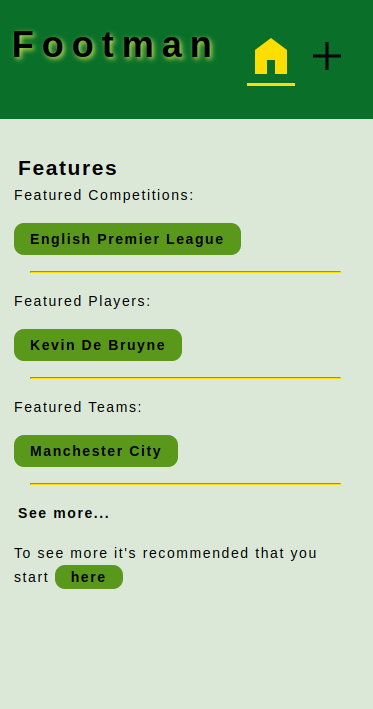
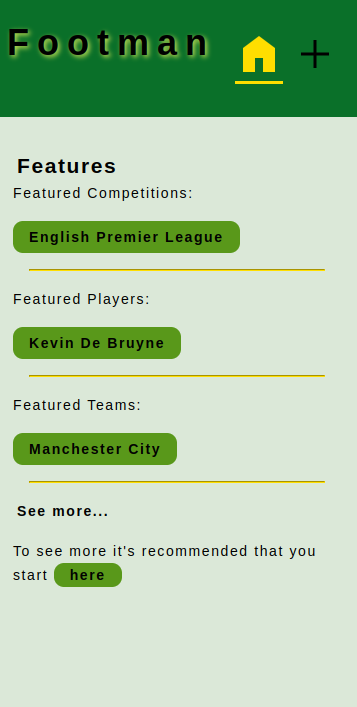
Tweak to prevent jolting.

diff --git a/index.html b/index.html
@@ -59,26 +59,35 @@
                 <details>
                     <summary>Need more? </summary> 
                         <nav>
-                            <details>
-                                <summary>Background</summary>
+                            <div>
+                                <details>
+                                    <summary>Background</summary>
+                                </details>
+                                <p>
+                                    Hi. I spend my days making things. I can make things on screens. This is not very useful, so I also learned to save the things we make on screens. This is OK, but it's pretty lonely
+                                    so I also learned how to have my thing eat other things stuck in the spider's web. This is pretty selfish though, so I rounded it off by making sure my thing can be eaten by other things as well.
+                                    Now I am full, but I want to make bigger things. I am sure you want to help out so drop me a line at richard.theuma@gmail.com.
+                                </p>
+                            </div>
+                            <div>
+                                <details>
+                                    <summary>History</summary>
+                                </details>
+                                <p>
+                                    Hi. I spend my days making things. I can make things on screens. This is not very useful, so I also learned to save the things we make on screens. This is OK, but it's pretty lonely
+                                    so I also learned how to have my thing eat other things stuck in the spider's web. This is pretty selfish though, so I rounded it off by making sure my thing can be eaten by other things as well.
+                                    Now I am full, but I want to make bigger things. I am sure you want to help out so drop me a line at richard.theuma@gmail.com.
+                                </p>
+                            </div>
+                            <div>
+                                <details>
+                                    <summary>Other</summary>
+                                </details>
                                 <p>Hi. I spend my days making things. I can make things on screens. This is not very useful, so I also learned to save the things we make on screens. This is OK, but it's pretty lonely
                                     so I also learned how to have my thing eat other things stuck in the spider's web. This is pretty selfish though, so I rounded it off by making sure my thing can be eaten by other things as well.
                                     Now I am full, but I want to make bigger things. I am sure you want to help out so drop me a line at richard.theuma@gmail.com.</p>
-                            </details>
-                            <details>
-                                <summary>History</summary>
-                                <p>Hi. I spend my days making things. I can make things on screens. This is not very useful, so I also learned to save the things we make on screens. This is OK, but it's pretty lonely
-                                    so I also learned how to have my thing eat other things stuck in the spider's web. This is pretty selfish though, so I rounded it off by making sure my thing can be eaten by other things as well.
-                                    Now I am full, but I want to make bigger things. I am sure you want to help out so drop me a line at richard.theuma@gmail.com.</p>
-                            </details>
-                            <details>
-                                <summary>Other</summary>
-                                <p>Hi. I spend my days making things. I can make things on screens. This is not very useful, so I also learned to save the things we make on screens. This is OK, but it's pretty lonely
-                                    so I also learned how to have my thing eat other things stuck in the spider's web. This is pretty selfish though, so I rounded it off by making sure my thing can be eaten by other things as well.
-                                    Now I am full, but I want to make bigger things. I am sure you want to help out so drop me a line at richard.theuma@gmail.com.</p>
-                            </details>
+                            </div>
                         </nav>    
-
             </details>     
             </section>
       
@@ -87,11 +96,13 @@
                 <h2>Projects</h2>
             <section id="devices">
                 <div>
-                    <img src="./assets/screenshots/wsw_mobile.png" alt="Mobile screenshot of project: \"WhosaidWhat\" " />
+                    <div id="mobile">
+                        <img src="./assets/screenshots/wsw_mobile.png" alt="Mobile screenshot of project: WhosaidWhat"  />
+                    </div>
                 </div>
                 <div>
                     <div id="screen">
-                        <img src="./assets/screenshots/wsw.png" alt="Wide screenshot of project: \"WhosaidWhat\" " />
+                        <img src="./assets/screenshots/wsw.png" alt="Wide screenshot of project: WhosaidWhat"  />
                     </div>
                     <div id="bottom"></div>
                 </div>

diff --git a/index.css b/index.css
@@ -158,26 +158,23 @@ summary::marker {
 }
 
 
-#about nav {
-    display: flex;
-    max-width: 100%;
-    overflow: scroll;
+#about div > details + p {
+    animation: 0.25s linear 0s 1 normal forwards running contractParagraph;
+    max-height: 0;
+    padding: 0;
+    overflow: hidden;
 }
 
-#about nav > details{
-    border: 1px solid;
-    padding: 1rem;
-    order: 2
+#about div > details[open] + p {
+    animation: 0.25s linear 0s 1 normal forwards running expandParagraph;
     
 }
 
-#about nav > details[open]{
-    background-color: green;
-    flex-grow: 1;
-    flex-shrink: 0;
-    order: 1
 
-  
+#about nav {
+    display: flex;
+    max-width: 100%;
+    overflow-x: scroll;
 }
 
 
@@ -203,12 +200,15 @@ summary::marker {
 
 
 #devices > div:first-child {
+    aspect-ratio: 0.5;
     border: 2px solid;
     border-radius: 10px;
     box-shadow: 0.5rem 0.5rem;
     margin: 1rem;
-    max-width: min(150px,100%);
-    padding: 2px
+    width: min(150px,100%);
+    overflow: hidden;
+    padding: 2px;
+    position: relative;
    
 }
 
@@ -223,18 +223,24 @@ summary::marker {
     width: 25%;
   }
 
+#devices #mobile {
+    aspect-ratio: 0.5;
+    overflow: hidden;
+    position: relative;
+    width: 100%
+}
 
-
-#devices > div:first-child > img {
+#devices #mobile > img {
     border: 1px solid;
     border-radius: 3px;
     margin-top: 4px;
     max-width: 100%;
+    position: absolute;
 }
 
 #devices > div:last-child {
     min-height: 200px;
-    max-width: min(700px,100%);
+    width: min(650px,100%);
 }
 
 #devices #screen {  
@@ -245,6 +251,7 @@ summary::marker {
     border-style: solid;
     border-width: 6px 1.5px 0 1.5px;
     margin: 0 auto;
+    overflow: hidden;
     padding-bottom: 6px;
     width: min(80%,560px);
   }
@@ -255,6 +262,7 @@ summary::marker {
     border-radius: 5px;
     height: auto;
     max-width: 100%;
+    position: absolute;
   }
 
 
@@ -299,6 +307,58 @@ summary::marker {
  #project_details button:last-child {
     border-radius: 0 0 60px 0;
  }
+
+ @keyframes contractParagraph {
+    0% {
+        background: linear-gradient(95deg,white,rgb(219, 226, 236));
+        opacity: 1;
+        max-height: 100rem;
+        padding: 2rem;
+        transform: rotate(5deg);
+    }
+
+    50% {
+        opacity: 0;
+    }
+
+    100% {
+        background-color: transparent;
+        display: block;
+        max-height: 0;
+        opacity: 0;
+        overflow: hidden;
+        padding: 0;
+        transform: none;
+
+    }
+}
+
+@keyframes expandParagraph {
+    0% {
+        background-color: transparent;
+        max-height: 0;
+        opacity: 0;
+        overflow: hidden;
+        padding: 0;
+        transform: none;
+        
+    }
+
+    50% {
+        opacity: 0.5;
+    }
+
+    100% {
+        background: linear-gradient(95deg,white,rgb(219, 226, 236));  
+        max-height: 100rem;
+        opacity: 1;
+        padding: 2rem;
+        transform: rotate(5deg);
+
+        
+
+    }
+}
 
 
 @keyframes contractHeader {
